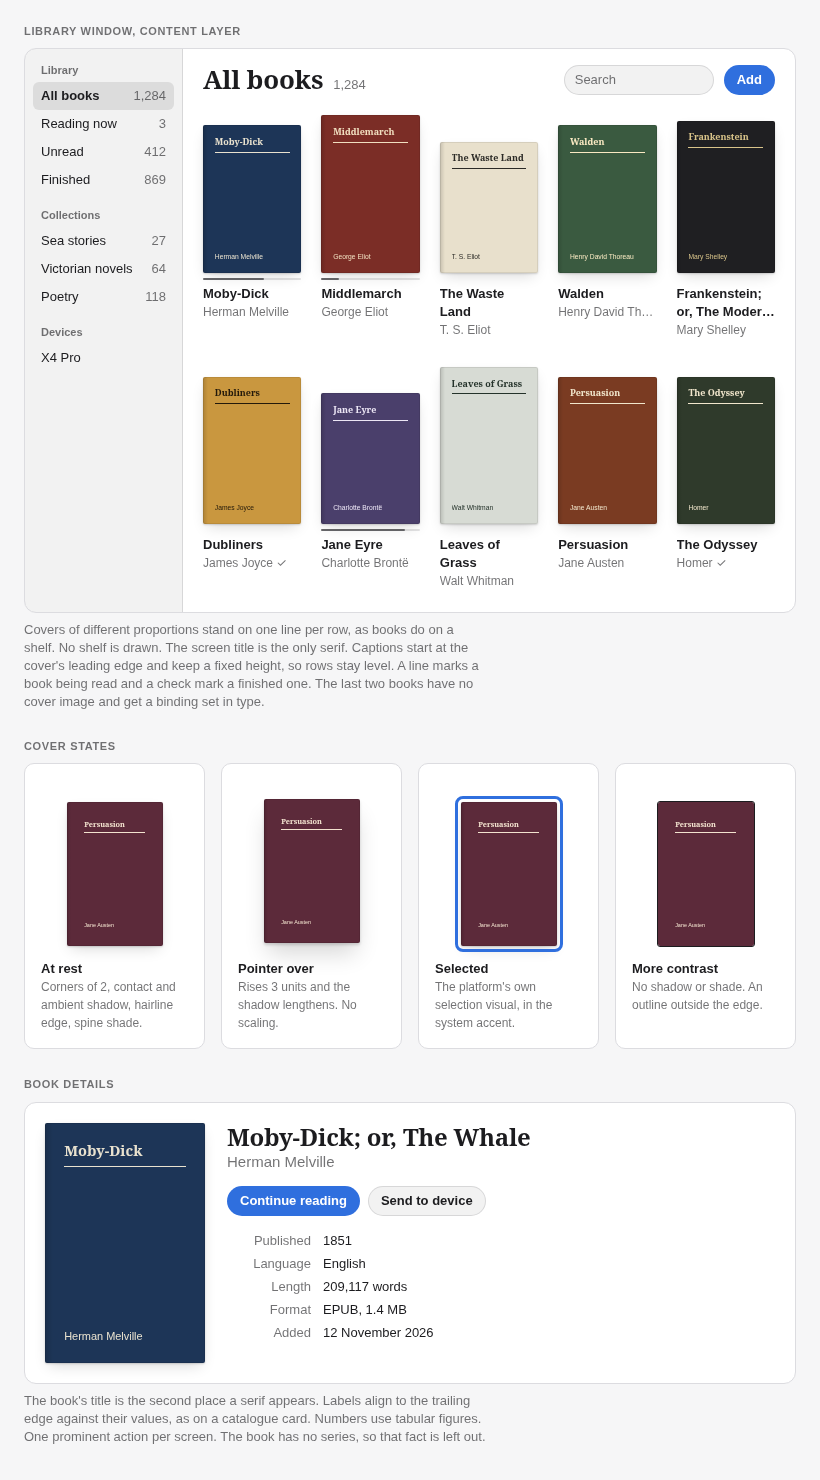
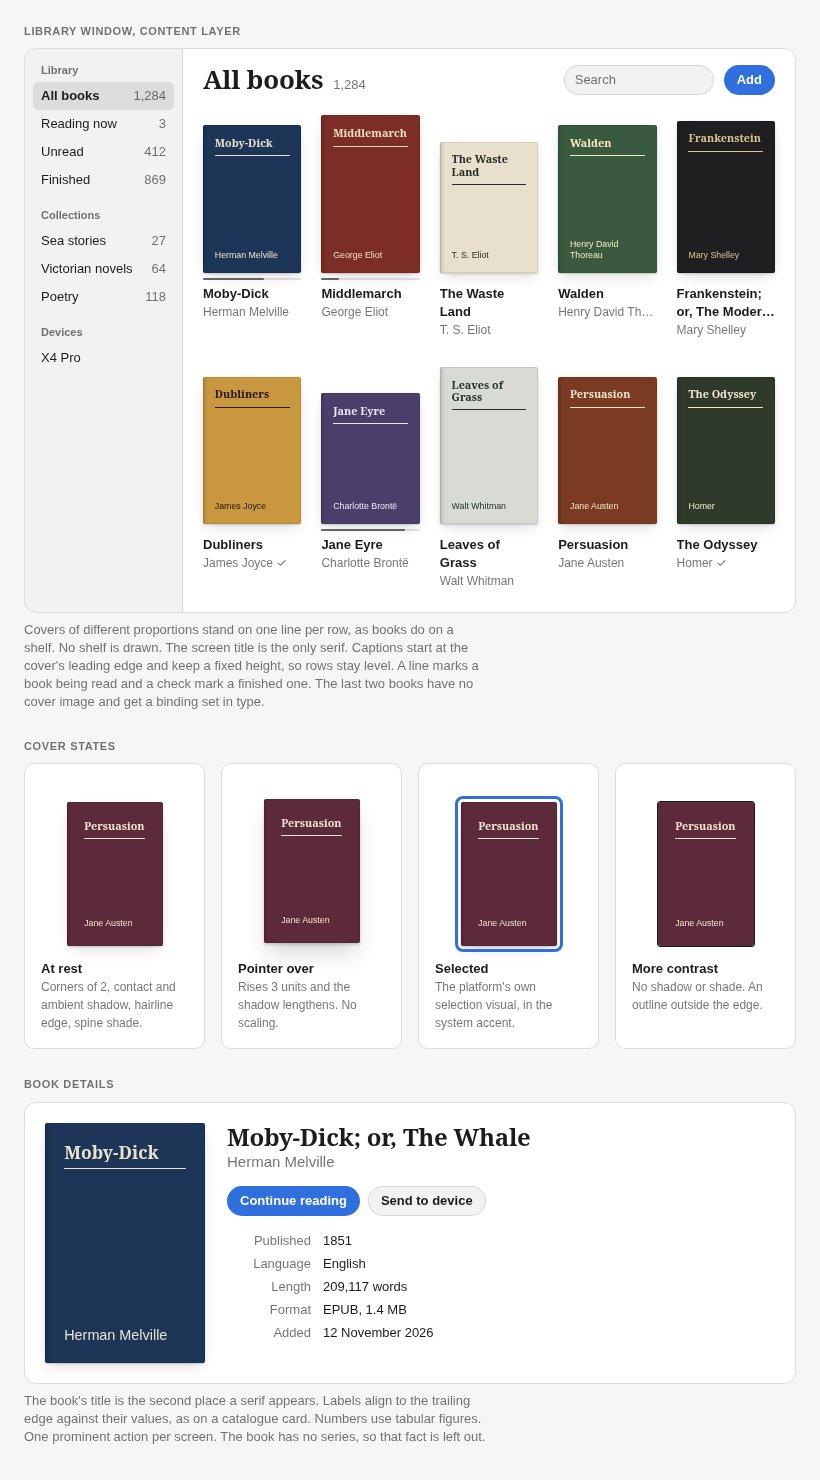
Remove contradictions the recheck found in the interface guidelines
The summary of what makes the app quiet now allows the two exceptions the
rules make. The grid says when covers can be narrower than the chosen width,
a narrow window gets a key for book details, and every platform names the
styles for the details author and facts. The sample sets binding type at the
written sizes.

Refs #91

diff --git a/docs/design/interface-sample.html b/docs/design/interface-sample.html
@@ -8,6 +8,7 @@
      chromium --headless --hide-scrollbars --window-size=820,1480 --screenshot=interface-sample-light.png interface-sample.html
      and the same with interface-sample.html#dark for interface-sample-dark.png. -->
 <style>
+  /* Binding type is 11% and 9% of the cover's width: 10.8px and 8.8px on a 98px cover, 17.6px and 14.4px at 160px. */
   :root {
     --background: #f6f6f7; --foreground: #1c1c1f; --card: #ffffff; --border: #dcdce0;
     --primary: #2f6fde; --primary-foreground: #ffffff; --radius: 10px;
@@ -51,15 +52,15 @@
   .shelf { display: grid; grid-template-columns: repeat(5, minmax(0, 1fr)); column-gap: 20px; row-gap: 28px; align-items: end; }
   .book { min-width: 0; }
   .cover {
-    position: relative; width: 100%; border-radius: 2px; overflow: hidden; container-type: inline-size;
+    position: relative; width: 100%; border-radius: 2px; overflow: hidden;
     box-shadow: 0 1px 2px var(--contact), 0 6px 14px -4px var(--ambient);
     display: flex; flex-direction: column; justify-content: space-between; padding: 12%;
   }
   .cover::before { content: ""; position: absolute; inset: 0; border-radius: inherit; box-shadow: inset 0 0 0 1px var(--edge); pointer-events: none; }
   .cover::after { content: ""; position: absolute; inset: 0 auto 0 0; width: 5%; background: linear-gradient(90deg, rgba(0,0,0,.14), rgba(0,0,0,0)); pointer-events: none; }
-  .cover .t { font: 600 12cqw/1.15 var(--serif); display: -webkit-box; -webkit-box-orient: vertical; -webkit-line-clamp: 4; overflow: hidden; }
-  .cover .a { font: 9cqw/1.25 var(--font-sans); display: -webkit-box; -webkit-box-orient: vertical; -webkit-line-clamp: 2; overflow: hidden; }
-  .cover .rule { height: 1px; background: currentColor; margin: 6cqw 0; }
+  .cover .t { font: 600 10.8px/1.15 var(--serif); display: -webkit-box; -webkit-box-orient: vertical; -webkit-line-clamp: 4; overflow: hidden; }
+  .cover .a { font: 8.8px/1.25 var(--font-sans); display: -webkit-box; -webkit-box-orient: vertical; -webkit-line-clamp: 2; overflow: hidden; }
+  .cover .rule { height: 1px; background: currentColor; margin: 6px 0; }
   .meta { }
   .meta .lines { height: 54px; }
   .meta .t { font-weight: 600; display: -webkit-box; -webkit-box-orient: vertical; -webkit-line-clamp: 2; overflow: hidden; }
@@ -95,6 +96,8 @@
 
   .detail { display: grid; grid-template-columns: 160px 1fr; gap: 22px; background: var(--card); border: 1px solid var(--border); border-radius: 12px; padding: 20px; }
   .detail .cover { align-self: start; border-radius: 2px; }
+  .detail .cover .t { font-size: 17.6px; }
+  .detail .cover .a { font-size: 14.4px; }
   .detail h1 { font: 600 24px/1.15 var(--serif); letter-spacing: -.01em; margin: 0 0 2px; }
   .detail .by { font-size: 15px; line-height: 20px; color: var(--dim); }
   .detail .acts { display: flex; gap: 8px; margin: 14px 0 16px; }

diff --git a/docs/design/interface.md b/docs/design/interface.md
@@ -38,9 +38,9 @@ Four things, each of which you can measure on a screen.
 | Quality | Where it comes from |
 |---|---|
 | Order | Covers stand on one line per row. Every screen has one leading edge. Captions keep a fixed height. Numbers line up in columns. |
-| Quiet | One prominent action per screen. No badges, banners or colour that ask for attention. Nothing moves unless the reader caused it. |
+| Quiet | One prominent action per screen. No badges, and a message only for a problem that needs a decision. Nothing moves unless the reader caused it, apart from a cover fading in as it loads. |
 | Warmth | A serif for the names of things. Covers drawn as objects with weight. Paper tones in the reader. |
-| Books first | The frame takes its colour from the system. The only strong colour in the window is on the covers. |
+| Books first | The frame takes its colour from the system. The only strong colour in the window is on the covers and the one prominent action. |
 
 Things the app never draws: wood, leather, cloth or paper textures, a shelf under
 the books, page curls, gilt, drop caps or ornaments in the interface, and
@@ -142,14 +142,14 @@ A cover is the one thing in the window drawn as a physical object.
 | Shape | The image's own proportions. Corners of 2 units, 3 when the cover is 200 units wide or more. The platform's control radius never applies to a cover. |
 | Edge | A 1 unit line inside the edge, white at 9% in dark appearance and black at 8% in light, so a cover the colour of the window keeps its outline. |
 | Spine | A shade over the leading 5% of the width, black at 14% fading to nothing. Leave it out when the cover is under 64 units wide. |
-| Widths | Small 96, medium 128, large 160. Medium is the default. With a row W wide and a chosen width c, the grid has floor((W + 20) / (c + 20)) columns and never fewer than two. The columns share the row equally, so covers are c wide or a little more. |
+| Widths | Small 96, medium 128, large 160. Medium is the default. With a row W wide and a chosen width c, the grid has floor((W + 20) / (c + 20)) columns and never fewer than two. The columns share the row equally, so covers are c wide or a little more. Only the two-column minimum can make them narrower than c. |
 | Gaps | 20 between columns. 12 from cover to caption. 28 from the caption block to the next row. The larger gap between rows makes each row read as a shelf. |
 | Progress | A line 2 units thick in the middle of the gap between cover and caption, as wide as the cover: a track in the separator colour, filled from the leading edge in the secondary label colour. Drawn only while a book is partly read. The gap is the same for every book. |
 | Loading | The catalogue stores each cover's pixel size and average colour when the book is imported. Until the image is decoded, draw a block of that size and colour, then cross-fade. If the catalogue has neither, use 2:3 and the platform's secondary fill colour. A cover never pops in and never shows a spinner. |
 
 A book with no cover image gets a binding set in type. It is 2:3, a flat colour,
 with padding of 12% of its width. The title is at the top in the serif, semibold,
-at 12% of the cover's width, on up to four lines and then an ellipsis. A hairline
+at 11% of the cover's width, on up to four lines and then an ellipsis. A hairline
 rule in the text colour follows it. The author is at the bottom in the UI font at
 9% of the width, on up to two lines, and is left out when unknown.
 
@@ -194,7 +194,9 @@ number, and take it modulo 8. The result indexes this list from zero.
 - Press: the cover settles back to rest.
 - With a pointer, a click selects the book, and book details follow the selection
   when the details pane is open. A double click or Return opens the reader. Space
-  opens or closes the details pane. The context menu holds every other action.
+  opens or closes the details pane. In a window too narrow for a pane, Space
+  opens book details as a page and Escape goes back. The context menu holds
+  every other action.
 - With touch, a tap opens book details and the prominent action there opens the
   reader. A long press opens the context menu.
 - Opening book details as a page, or the reader from anywhere: the cover travels
@@ -243,6 +245,7 @@ roles and the motion above are drawn by the app, so the app must follow them.
 | Table | `Table` | Not offered on iPhone | `ListView` with column headers | `GtkColumnView` | Not offered on phones |
 | Pointer over a cover | The rise above | iPad pointer only | The rise above | The rise above | None |
 | Caption title, then author | Subheadline in semibold, Footnote | The same | Body Strong, Caption | `.heading`, `.caption` with `.dimmed` | `titleSmall`, `bodySmall` |
+| Details author, then facts | Title 3 in the secondary colour, Body | The same | Body Large in `TextFillColorSecondaryBrush`, Body | `.title-4` with `.dimmed`, `.body` | `titleMedium` in `onSurfaceVariant`, `bodyMedium` |
 | Opening a book | Zoom from the cover | `navigationTransition(.zoom)` from a `matchedTransitionSource` | Connected animation | The navigation view's push, with a cross-fade of the cover | `sharedElement` in a `SharedTransitionLayout` |
 | Empty state | `ContentUnavailableView` | The same | A centred text block in the content layer | `AdwStatusPage` | A centred text block |
 | Progress of a running job | Toolbar | Toolbar | Title bar | Header bar | Top app bar |
